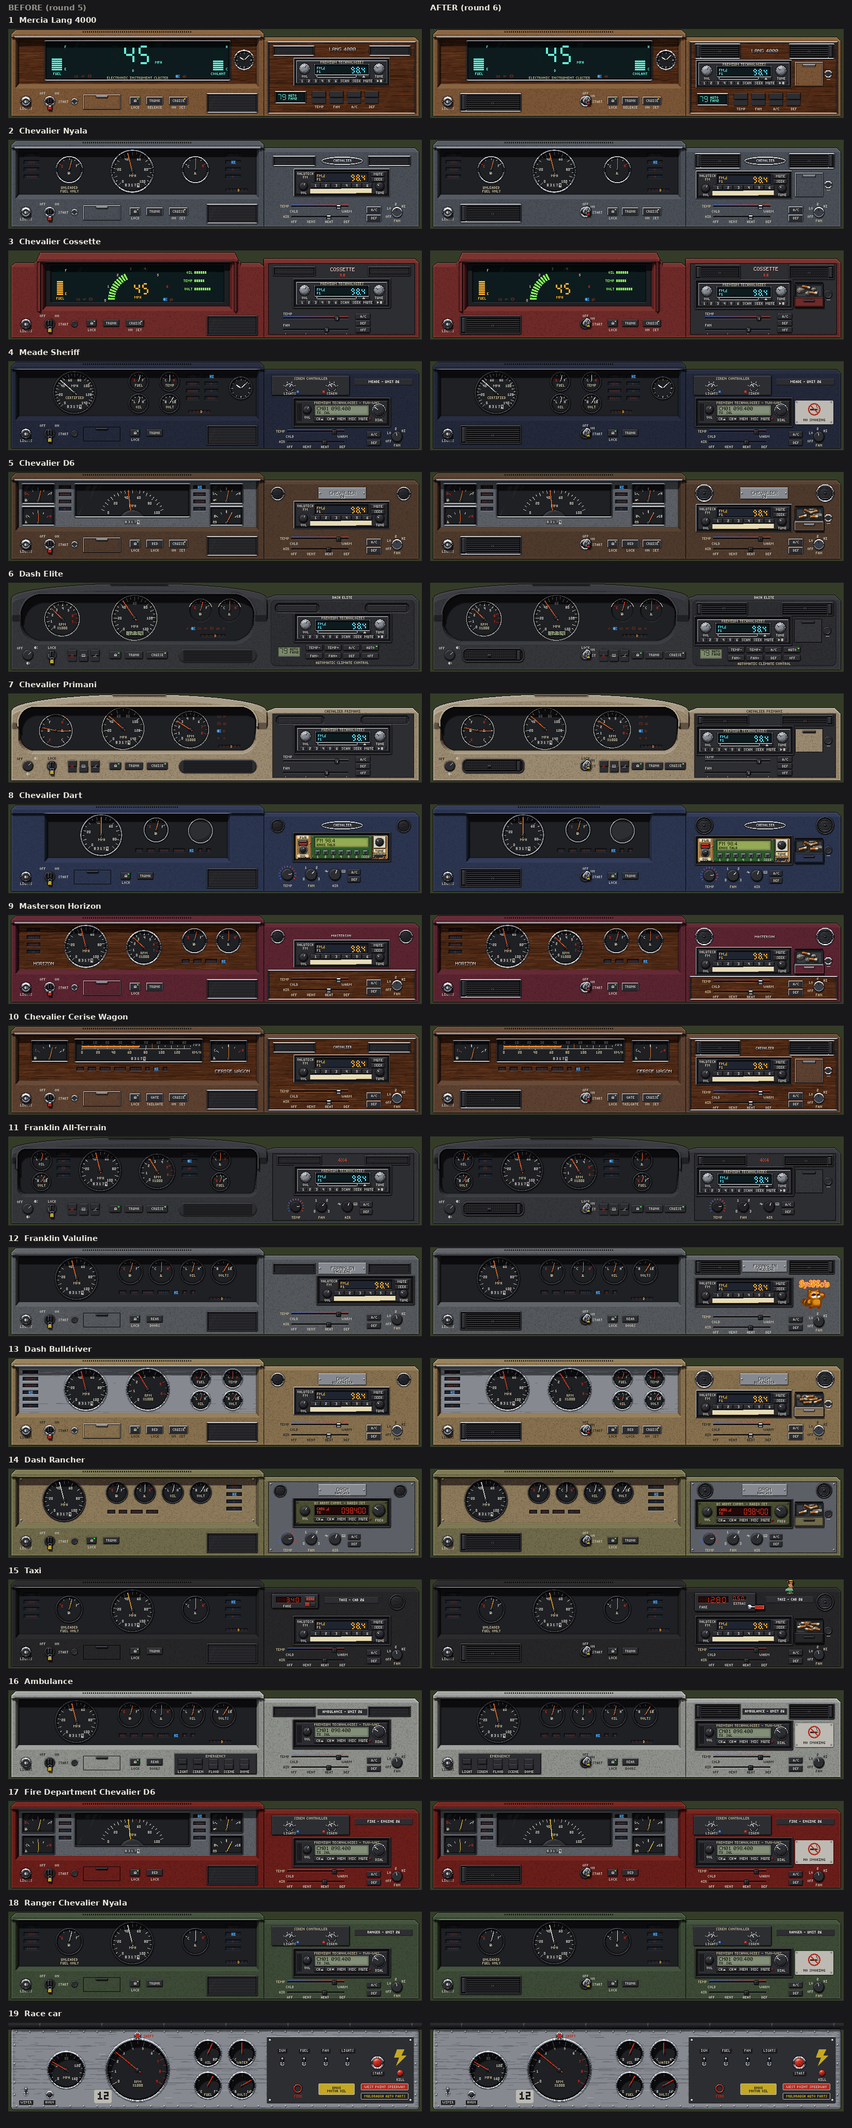
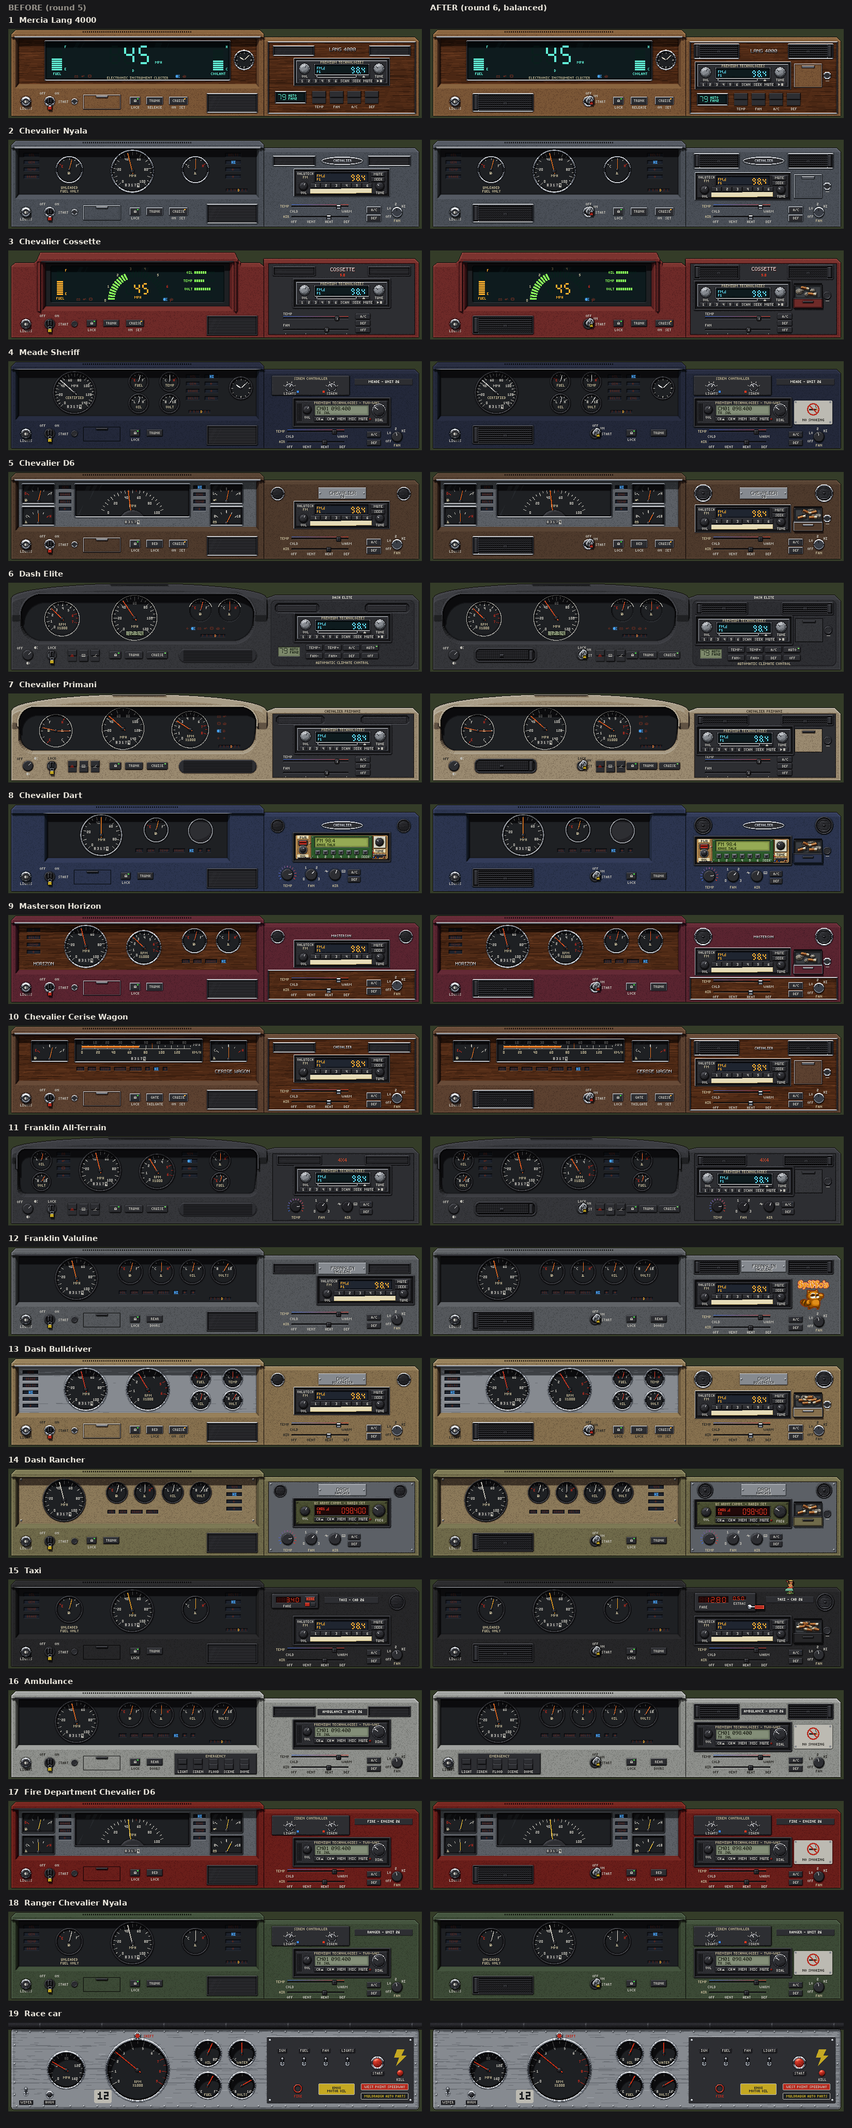
Mockups: dashboards round 6 balance pass
Director, Oct 24: 'do a balance pass to even out spacing of items in the dash.'
- The lower row: left of the steering column (14..222) the lights and the driver's vent (the ambulance's switch panel), right of it (278..486) the key, lock, trunk and cruise, each side spread with equal gaps; the column's 56 px kept clear. Same for the curvy dashes (lights, vent | key, rockers, lock, trunk, cruise).
- The console: the vents 4 px in from each side with the badge centred between them; the radio and ash tray (or plate) spread with equal 6 px gaps across the console; 7 px over the radio and 7 under it on every boxy console.

Claude-Session: https://claude.ai/code/session_015Lv8fXDH1kuxg46sEw6iLh

diff --git a/ZeDUI/mockups/zed_dashboard_r6/src/designs.py b/ZeDUI/mockups/zed_dashboard_r6/src/designs.py
@@ -249,8 +249,8 @@ def cl_cossette(b):
 
 
 # =================================================================================== consoles
-HU6 = (518, 64)          # round 6 (Oct 24): the radio against the console's left edge ...
-ASH6 = (706, 64)         # ... and the ash tray (with the lighter) to its right
+HU6 = (516, 67)          # round 6 (Oct 24): the radio against the console's left edge ...
+ASH6 = (704, 67)         # ... and the ash tray (with the lighter) to its right
 
 
 def con_sedan(b, chrome=True, vents="rect", climate="levers", inset_mat=None, badge_spec=None, hu=HU6, tab=None, fan_mat=None,
@@ -259,7 +259,7 @@ def con_sedan(b, chrome=True, vents="rect", climate="levers", inset_mat=None, ba
     if vents == "rect": console_vents(b, 26, chrome=chrome, w=88, h=30)
     elif vents == "round": console_vents(b, 26, chrome=chrome, h=28, round_=True)
     if badge_spec: badge(b, **badge_spec)
-    hy = hu[1] + (2 if vents == "round" else 0)      # the eyeballs' rings reach a little lower
+    hy = hu[1]                     # balance pass: 7 px over the radio and 7 under it, for every vent
     headunit_slot(b, hu[0], hy, frame="chrome" if chrome else "bezel")
     if ash: ash_tray(b, ASH6[0], hy, chrome=chrome)
     if climate == "levers": climate_levers(b, 548, 128, chrome=chrome, fan_knob=(752, 140), tab=tab, fan_mat=fan_mat)
@@ -279,9 +279,9 @@ def con_fleet(b, top="siren", badge_role="unit", chrome=False):
         badge(b, 650, 33, 92, 12, style="stencil", role=badge_role, font="35", color="#e8e8e0", plate="stencil")
         vent_eyeball(b, 764, 44, 14, bezel="blackp")
         v6.hula(b, 684, 0)
-    headunit_slot(b, 518, 76, frame="bezel")
-    if top == "meter": ash_tray(b, 706, 76, chrome=False, levels=(3,), seed=11)   # a cab's: always the full one
-    else: no_smoking(b, 706, 76)
+    headunit_slot(b, 516, 76, frame="bezel")
+    if top == "meter": ash_tray(b, 704, 76, chrome=False, levels=(3,), seed=11)   # a cab's: always the full one
+    else: no_smoking(b, 704, 76)
     # three pixels higher than the sedans' so the AIR legends (a clear pixel under the tab) stay on the console
     climate_levers(b, 540, 135, chrome=chrome, fan_knob=(752, 146))
 
@@ -299,7 +299,7 @@ def wagon(b):
     lower_boxy6(b, y0=118, chrome=True, trunk_label="GATE", trunk_sub="TAILGATE")
     inset(b, 504, 26, 282, 136, "walnut", "chrome", seed=7)
     console_vents(b, 28, chrome=True, w=88, h=30)
-    badge(b, 604, 39, 86, 9, style="chrome", role="make", font="35", shadow="#140904")
+    badge(b, 602, 39, 86, 9, style="chrome", role="make", font="35", shadow="#140904")
     headunit_slot(b, *HU6, frame="chrome")
     ash_tray(b, *ASH6, chrome=True)
     climate_levers(b, 548, 128, chrome=True, fan_knob=(752, 140))
@@ -332,7 +332,7 @@ def luxury(b):
     lower_boxy6(b, y0=118, chrome=True, trunk_label="TRUNK", trunk_sub="RELEASE")
     inset(b, 504, 26, 282, 136, "walnut", "chrome", seed=13)
     console_vents(b, 28, chrome=True, w=88, h=30)
-    badge(b, 604, 37, 86, 12, style="chrome", role="model", font="57", shadow="#140904")
+    badge(b, 602, 37, 86, 12, style="chrome", role="model", font="57", shadow="#140904")
     headunit_slot(b, *HU6, frame="chrome")
     ash_tray(b, *ASH6, chrome=True)
     climate_vfd(b, 516, 124)
@@ -352,12 +352,12 @@ def horizon(b):
     lamp_col(b, 34, 24, 30, [L_LT, L_BELTS, L_TEMP, L_RT])
     badge(b, 30, 90, 76, 9, style="chrome", role="model", font="57", shadow="#140904")
     lower_boxy6(b, y0=118, chrome=True, cruise=False)
-    inset(b, 504, 120, 282, 42, "walnut", "chrome", seed=23)
+    inset(b, 504, 122, 282, 40, "walnut", "chrome", seed=23)
     console_vents(b, 27, chrome=True, h=28, round_=True)
-    badge(b, 604, 38, 86, 9, style="chrome", role="make", font="35", shadow="#140904")
-    headunit_slot(b, 518, 66, frame="chrome")
-    ash_tray(b, 706, 66, chrome=True)
-    climate_levers(b, 548, 128, chrome=True, fan_knob=(752, 138))
+    badge(b, 602, 38, 86, 9, style="chrome", role="make", font="35", shadow="#140904")
+    headunit_slot(b, *HU6, frame="chrome")
+    ash_tray(b, *ASH6, chrome=True)
+    climate_levers(b, 548, 128, chrome=True, fan_knob=(752, 141))
 
 
 # =================================================================================== vinyl and chrome, speed first
@@ -367,7 +367,7 @@ def nyala(b):
     cl_nyala(b, bz="chrome", nd="#f07a28")
     lower_boxy6(b, y0=118, chrome=True)
     con_sedan(b, chrome=True, vents="rect", climate="levers",
-              badge_spec=dict(x=608, y=33, w=80, h=16, style="chrome", role="make", font="35", plate="oval"))
+              badge_spec=dict(x=605, y=33, w=80, h=16, style="chrome", role="make", font="35", plate="oval"))
 
 
 def dart(b):
@@ -376,7 +376,7 @@ def dart(b):
     cl_dart(b)
     lower_boxy6(b, y0=118, chrome=False, cruise=False)
     con_sedan(b, chrome=False, vents="round", climate="knobs",
-              badge_spec=dict(x=608, y=33, w=80, h=16, style="chrome", role="make", font="35", plate="oval"))
+              badge_spec=dict(x=605, y=33, w=80, h=16, style="chrome", role="make", font="35", plate="oval"))
 
 
 def d6(b):
@@ -385,8 +385,8 @@ def d6(b):
     cl_d6(b, bz="chrome", nd="#ff6a1a")
     lower_boxy6(b, y0=118, chrome=True, trunk_label="BED", trunk_sub="LOCK")
     con_sedan(b, chrome=True, vents="round", climate="levers", tab="tab_black", fan_mat="chrome",
-              badge_spec=dict(x=600, y=30, w=92, h=22, style="emboss", role="make", font="57", color="#2a2c30", plate="stamped"))
-    badge(b, 604, 44, 84, 7, style="emboss", role="sub", font="35", color="#2a2c30", check=False)
+              badge_spec=dict(x=599, y=30, w=92, h=22, style="emboss", role="make", font="57", color="#2a2c30", plate="stamped"))
+    badge(b, 603, 44, 84, 7, style="emboss", role="sub", font="35", color="#2a2c30", check=False)
 
 
 def van(b):
@@ -395,10 +395,10 @@ def van(b):
     cl_van(b, bz="blackp", nd="#ff7a2a")
     lower_boxy6(b, y0=118, chrome=False, cruise=False, trunk_label="REAR", trunk_sub="DOORS")
     console_vents(b, 24, chrome=False, w=88, h=28)
-    badge(b, 604, 26, 86, 22, style="emboss", role="make", font="57", color="#2a2c30", plate="stamped")
-    badge(b, 608, 40, 82, 7, style="emboss", role="model", font="35", color="#2a2c30", check=False)
-    headunit_slot(b, 518, 64, frame="bezel")
-    v6.van_right(b, 706, 66)          # switched sides (Oct 24): the radio went left; logo sticker, NO SMOKING or ash tray
+    badge(b, 602, 26, 86, 22, style="emboss", role="make", font="57", color="#2a2c30", plate="stamped")
+    badge(b, 604, 40, 82, 7, style="emboss", role="model", font="35", color="#2a2c30", check=False)
+    headunit_slot(b, *HU6, frame="bezel")
+    v6.van_right(b, 704, 67)          # switched sides (Oct 24): the radio went left; logo sticker, NO SMOKING or ash tray
     climate_levers(b, 548, 134, chrome=False, fan_knob=(752, 144))
 
 
@@ -408,8 +408,8 @@ def bulldriver(b):
     cl_bull(b, nd="#e8402a")
     lower_boxy6(b, y0=118, chrome=True, trunk_label="BED", trunk_sub="LOCK")
     con_sedan(b, chrome=True, vents="round", climate="levers",
-              badge_spec=dict(x=600, y=30, w=92, h=22, style="emboss", role="make", font="57", color="#2a2c30", plate="stamped"))
-    badge(b, 604, 44, 84, 7, style="emboss", role="model", font="35", color="#2a2c30", check=False)
+              badge_spec=dict(x=599, y=30, w=92, h=22, style="emboss", role="make", font="57", color="#2a2c30", plate="stamped"))
+    badge(b, 603, 44, 84, 7, style="emboss", role="model", font="35", color="#2a2c30", check=False)
 
 
 def rancher(b):
@@ -420,10 +420,10 @@ def rancher(b):
     inset(b, 504, 26, 282, 136, "steel", "seam")
     for (x, y) in ((508, 30), (781, 30), (508, 157), (781, 157)): screw(b, x, y)
     console_vents(b, 29, chrome=False, h=24, round_=True, x0=516, xr=778)
-    badge(b, 604, 30, 86, 22, style="emboss", role="make", font="57", color="#2a2c30", plate="stamped")
-    badge(b, 606, 44, 82, 7, style="emboss", role="model", font="35", color="#2a2c30", check=False)
-    headunit_slot(b, 518, 64, frame="bezel")
-    ash_tray(b, 706, 64, chrome=False)
+    badge(b, 602, 30, 86, 22, style="emboss", role="make", font="57", color="#2a2c30", plate="stamped")
+    badge(b, 604, 44, 82, 7, style="emboss", role="model", font="35", color="#2a2c30", check=False)
+    headunit_slot(b, 516, 64, frame="bezel")
+    ash_tray(b, 704, 64, chrome=False)
     climate_knobs(b, 540, 136, pitch=46, r=11, mat="blackp")
 
 
@@ -452,10 +452,10 @@ def dashelite(b):
     b.check_flat(506, 32, 282, 132, "console face")
     d.slab(cf, 1.0, "blackp", bevel=3.0, polish=0.2, on=Z_FACE - 1.0)
     d.grain_pebble(cf, 0.035, seed=9)
-    vent_louvered(b, 514, 38, 100, 26, bezel="blackp", on=Z_FACE, wheel="left")
-    vent_louvered(b, 680, 38, 100, 26, bezel="blackp", on=Z_FACE, wheel="right")
-    headunit_slot(b, 516, 70, frame="bezel")
-    ash_tray(b, 704, 70, chrome=False)
+    vent_louvered(b, 514, 38, 100, 24, bezel="blackp", on=Z_FACE, wheel="left")
+    vent_louvered(b, 680, 38, 100, 24, bezel="blackp", on=Z_FACE, wheel="right")
+    headunit_slot(b, 518, 69, frame="bezel")
+    ash_tray(b, 706, 69, chrome=False)
     climate_buttons(b, 576, 124, lcd=True)
     b.label("AUTOMATIC CLIMATE CONTROL", 646, 154, "paint_c", align="c")
     badge(b, 560, 25, 172, 7, style="flat", role="full", font="35", color="#d8d6cc", check=False)
@@ -505,7 +505,7 @@ def primani(b):
     vent_louvered(b, 516, 42, 100, 20, bezel="blackp", on=Z_FACE, wheel="left")
     vent_louvered(b, 680, 42, 100, 20, bezel="blackp", on=Z_FACE, wheel="right")
     headunit_slot(b, 520, 68, frame="bezel")
-    ash_tray(b, 706, 68, chrome=False)
+    ash_tray(b, 705, 68, chrome=False)
     climate_sliders(b, 532, 130, w=126)
     badge(b, 560, 31, 172, 7, style="flat", role="full", font="35", color="#3a3226", check=False)
 
@@ -530,7 +530,7 @@ def suv(b):
     vent_louvered(b, 516, 36, 96, 22, bezel="blackp", on=Z_FACE, wheel="left")
     vent_louvered(b, 684, 36, 96, 22, bezel="blackp", on=Z_FACE, wheel="right")
     headunit_slot(b, 520, 64, frame="bezel")
-    ash_tray(b, 706, 64, chrome=False)
+    ash_tray(b, 705, 64, chrome=False)
     climate_knobs(b, 556, 136, pitch=50, r=10, mat="rubber")
     badge(b, 622, 41, 48, 9, style="flat", role="sub", font="57", color="#d84a2a", check=True)
 
@@ -543,10 +543,10 @@ def cossette(b):
     lower_boxy6(b, y0=120, chrome=False)
     inset(b, 504, 26, 282, 136, "blackp", "seam")
     console_vents(b, 28, chrome=False, w=88, h=28)
-    badge(b, 606, 31, 86, 10, style="script", role="model", font="57", color="#e8e8e8", shadow="#3a0a08")
-    badge(b, 606, 44, 86, 7, style="flat", role="sub", font="35", color="#ff3a20", check=False)
-    headunit_slot(b, 518, 62, frame="bezel")
-    ash_tray(b, 706, 62, chrome=False)
+    badge(b, 602, 31, 86, 10, style="script", role="model", font="57", color="#e8e8e8", shadow="#3a0a08")
+    badge(b, 602, 44, 86, 7, style="flat", role="sub", font="35", color="#ff3a20", check=False)
+    headunit_slot(b, 516, 64, frame="bezel")
+    ash_tray(b, 704, 64, chrome=False)
     climate_sliders(b, 532, 130, w=126)
 
 
@@ -636,11 +636,11 @@ def ambulance(b):
     """Ambulance: a Valuline made plain, medic grey; the emergency switches on the lower dash"""
     shell_boxy(b, trim="rubber")
     cl_van(b, bz="blackp", nd="#ff7a2a")
-    lower_boxy6(b, y0=118, chrome=False, cruise=False, vent=False, trunk_label="REAR", trunk_sub="DOORS")
-    rocker_panel(b, 56, 122, [("LIGHT", "lbarLamp", "lbar"), ("SIREN", "sirenLamp", "siren"), ("FLOOD", None, None),
+    px_ = lower_boxy6(b, y0=118, chrome=False, cruise=False, vent=False, trunk_label="REAR", trunk_sub="DOORS", left_panel=158)
+    rocker_panel(b, px_, 122, [("LIGHT", "lbarLamp", "lbar"), ("SIREN", "sirenLamp", "siren"), ("FLOOD", None, None),
                               ("SCENE", None, None), ("DOME", None, None)])
     console_vents(b, 26, chrome=False, w=88, h=30)
-    badge(b, 604, 35, 86, 12, style="stencil", role="unit", font="35", color="#e8e8e0", plate="stencil")
+    badge(b, 602, 35, 86, 12, style="stencil", role="unit", font="35", color="#e8e8e0", plate="stencil")
     headunit_slot(b, *HU6, frame="bezel")
     no_smoking(b, *ASH6)
     climate_levers(b, 548, 128, chrome=False, fan_knob=(752, 140))

diff --git a/ZeDUI/mockups/zed_dashboard_r6/src/v6.py b/ZeDUI/mockups/zed_dashboard_r6/src/v6.py
@@ -135,61 +135,89 @@ def ignition(b, cx, cy, met="chrome", labels=("OFF", "ON", "START"), style=None)
 
 
 # ====================================================================== lower rows
-def lower_boxy6(b, y0=118, chrome=True, trunk_label="TRUNK", trunk_sub=None, cruise=True, lock=True, vent=True, key_style=None):
-    """lights at the left, the driver's vent under the outer gauges, the column clear, the key right of it, then
-    the lock, trunk and cruise buttons"""
+LEFT_SPAN = (14, COLUMN_X - 28)       # the lower row left of the column, and right of it (balance pass, Oct 24:
+RIGHT_SPAN = (COLUMN_X + 28, 486)     #   every group spread with equal gaps, the column's 56 px kept clear)
+
+
+def spread(x0, x1, widths):
+    """left edges for blocks of these widths laid in x0..x1 with equal gaps before, between and after"""
+    g = (x1 - x0 - sum(widths)) / (len(widths) + 1)
+    out, x = [], x0 + g
+    for w in widths:
+        out.append(int(round(x))); x += w + g
+    return out
+
+
+def _lights_boxy(b, cx, y0, met, chrome):
+    d = b.d
+    b.check_flat(cx - 10, y0 + 12, 22, 22, "lights knob")
+    knob(d, cx, y0 + 22, 8, mat=met, on=Z_FACE, z=4.5, knurl=not chrome)
+    ins = np.hypot(d.XX + 0.5 - cx, d.YY + 0.5 - (y0 + 22)) <= 5.2
+    d.paint(ins, "blackp", flatlight=True)
+    d.paint(icon_mask(d, "headlamp", cx - 3, y0 + 20), "paint_w", flatlight=True)
+    b.label("LIGHTS", cx, y0 + 33, align="c")
+    DL.pull_variant(b, cx, y0 + 22, 8, met)
+    b.hit("lights", cx - 10, y0 + 12, 21, 21)
+
+
+def lower_boxy6(b, y0=118, chrome=True, trunk_label="TRUNK", trunk_sub=None, cruise=True, lock=True, vent=True, key_style=None,
+                left_panel=None):
+    """left of the column the lights and the driver's vent (or a left_panel width the caller fills: the ambulance's
+    switches), right of it the key, the lock, the trunk and cruise buttons; each side spread with equal gaps.
+    Returns the left panel's x when one is asked for."""
     d = b.d
     met = "chrome" if chrome else "blackp"
-    b.check_flat(24, y0 + 12, 22, 22, "lights knob")
-    knob(d, 34, y0 + 22, 8, mat=met, on=Z_FACE, z=4.5, knurl=not chrome)
-    ins = np.hypot(d.XX + 0.5 - 34, d.YY + 0.5 - (y0 + 22)) <= 5.2
-    d.paint(ins, "blackp", flatlight=True)
-    d.paint(icon_mask(d, "headlamp", 31, y0 + 20), "paint_w", flatlight=True)
-    b.label("LIGHTS", 34, y0 + 33, align="c")
-    DL.pull_variant(b, 34, y0 + 22, 8, met)
-    b.hit("lights", 24, y0 + 12, 21, 21)
-    if vent:
-        vent_louvered(b, 58, y0 + 6, 118, 36, bezel=met, wheel="left")
-    kx = COLUMN_X + KEY_DX
-    ignition(b, kx, y0 + 22, met=met, style=key_style)
-    lx = kx + 44
-    if lock:
-        b.check_flat(lx - 2, y0 + 12, 22, 17, "lock button")
-        button(d, lx, y0 + 14, 18, 13, None, mat="blackp", on=Z_FACE, z=2.0, frame="chrome" if chrome else None)
-        d.paint(icon_mask(d, "lock", lx + 7, y0 + 18), "paint_w", flatlight=True)
-        b.label("LOCK", lx + 9, y0 + 31, align="c")
-        b.led(lx + 13, y0 + 16, 3, 2, "anyLocked", "#44ee44")
-        b.hit("lock", lx, y0 + 14, 18, 13)
-        lx += 28
+    lw = 24                                                  # the lights block: the knob and its LIGHTS legend
+    left = [lw] + ([118] if vent else ([left_panel] if left_panel else []))
+    lx_ = spread(*LEFT_SPAN, left)
+    _lights_boxy(b, lx_[0] + lw // 2, y0, met, chrome)
+    panel_x = None
+    if vent: vent_louvered(b, lx_[1], y0 + 6, 118, 36, bezel=met, wheel="left")
+    elif left_panel: panel_x = lx_[1]
     tw = max(30, text_w(trunk_label) + 8)
-    b.check_flat(lx - 2, y0 + 12, tw + 4, 17, "trunk button")
-    button(d, lx, y0 + 14, tw, 13, trunk_label, mat="blackp", on=Z_FACE, frame="chrome" if chrome else None)
-    if trunk_sub: b.label(trunk_sub, lx + tw // 2, y0 + 31, align="c")
-    b.hit("trunk", lx, y0 + 14, tw, 13, needs="hasTrunk")
-    cx_ = lx + tw + 10
-    if cruise:
-        b.check_flat(cx_ - 2, y0 + 12, 38, 17, "cruise button")
-        button(d, cx_, y0 + 14, 34, 13, "CRUISE", mat="blackp", on=Z_FACE, frame="chrome" if chrome else None)
-        b.label("ON  SET", cx_ + 17, y0 + 31, align="c")
-        b.led(cx_ + 28, y0 + 16, 3, 2, "cruiseLamp", "#ffb02e")
-        b.hit("cruise", cx_, y0 + 14, 34, 13, needs="running")
-        cx_ += 44
-    return cx_
+    blocks = [("key", 44), ("lock", 18)] if lock else [("key", 44)]
+    blocks.append(("trunk", max(tw, text_w(trunk_sub) if trunk_sub else 0)))
+    if cruise: blocks.append(("cruise", 34))
+    xs = spread(*RIGHT_SPAN, [w for _, w in blocks])
+    for (kind, bw), x in zip(blocks, xs):
+        if kind == "key":
+            ignition(b, x + 12, y0 + 22, met=met, style=key_style)
+        elif kind == "lock":
+            b.check_flat(x - 2, y0 + 12, 22, 17, "lock button")
+            button(d, x, y0 + 14, 18, 13, None, mat="blackp", on=Z_FACE, z=2.0, frame="chrome" if chrome else None)
+            d.paint(icon_mask(d, "lock", x + 7, y0 + 18), "paint_w", flatlight=True)
+            b.label("LOCK", x + 9, y0 + 31, align="c")
+            b.led(x + 13, y0 + 16, 3, 2, "anyLocked", "#44ee44")
+            b.hit("lock", x, y0 + 14, 18, 13)
+        elif kind == "trunk":
+            bx = x + (bw - tw) // 2
+            b.check_flat(bx - 2, y0 + 12, tw + 4, 17, "trunk button")
+            button(d, bx, y0 + 14, tw, 13, trunk_label, mat="blackp", on=Z_FACE, frame="chrome" if chrome else None)
+            if trunk_sub: b.label(trunk_sub, bx + tw // 2, y0 + 31, align="c")
+            b.hit("trunk", bx, y0 + 14, tw, 13, needs="hasTrunk")
+        else:
+            b.check_flat(x - 2, y0 + 12, 38, 17, "cruise button")
+            button(d, x, y0 + 14, 34, 13, "CRUISE", mat="blackp", on=Z_FACE, frame="chrome" if chrome else None)
+            b.label("ON  SET", x + 17, y0 + 31, align="c")
+            b.led(x + 28, y0 + 16, 3, 2, "cruiseLamp", "#ffb02e")
+            b.hit("cruise", x, y0 + 14, 34, 13, needs="running")
+    return panel_x
 
 
 def lower_curvy6(b, y0=122):
-    """early 90s: the lights rotary, the vent low on the left, the column clear, the key right of it, then rockers
-    and the buttons"""
+    """early 90s: left of the column the lights rotary and the vent, right of it the key, the rockers and the buttons,
+    each side spread with equal gaps"""
     d = b.d; M = d.M
-    b.check_flat(26, y0 + 6, 25, 25, "lights knob")
-    knob(d, 38, y0 + 18, 10, mat="blackp", on=Z_FACE, z=3.0, knurl=True)
-    d.paint(icon_mask(d, "headlamp", 35, y0 + 31), "paint_w", flatlight=True)
-    b.label("OFF", 22, y0 + 2, align="c")
-    d.paint(icon_mask(d, "beam", 50, y0 + 1), "paint_w", flatlight=True)
-    b.part("ptr", src="lights", cx=38, cy=y0 + 18, r0=2, r1=8, angles=[225, 315], color="#e8e8e8", w=1)
-    b.hit("lights", 28, y0 + 8, 21, 21)
-    # the vent, a rounded slot with the 90s' fine louvers and a wheel
-    vx, vw = 62, 120
+    lx_ = spread(*LEFT_SPAN, [40, 120])
+    cx = lx_[0] + 16                                         # the knob; its OFF legend and beam icon reach either side
+    b.check_flat(cx - 12, y0 + 6, 25, 25, "lights knob")
+    knob(d, cx, y0 + 18, 10, mat="blackp", on=Z_FACE, z=3.0, knurl=True)
+    d.paint(icon_mask(d, "headlamp", cx - 3, y0 + 31), "paint_w", flatlight=True)
+    b.label("OFF", cx - 16, y0 + 2, align="c")
+    d.paint(icon_mask(d, "beam", cx + 12, y0 + 1), "paint_w", flatlight=True)
+    b.part("ptr", src="lights", cx=cx, cy=y0 + 18, r0=2, r1=8, angles=[225, 315], color="#e8e8e8", w=1)
+    b.hit("lights", cx - 10, y0 + 8, 21, 21)
+    vx, vw = lx_[1], 120
     b.check_flat(vx - 2, y0 + 2, vw + 4, 32, "driver vent")
     v = M().rrect(vx, y0 + 4, vw, 28, 10).get()
     d.slab(v & ~M().rrect(vx + 3, y0 + 7, vw - 6, 22, 8).get(), 1.4, "blackp", bevel=1.4, polish=0.3, on=Z_FACE)
@@ -206,8 +234,8 @@ def lower_curvy6(b, y0=122):
     wm = vi & (d.XX >= vx + vw - 14) & (d.XX < vx + vw - 7) & (d.YY >= y0 + 9) & (d.YY < y0 + 27)
     d.cyl(vx + vw - 14, y0 + 9, 7, 18, 3.2, "blackp", axis="v", polish=0.5, on=Z_FACE - 3.6, mask=wm)
     d.tex[wm & (((d.YY - y0) % 2) == 0)] += 0.11
-    # the key, right of the column
-    kx = COLUMN_X + KEY_DX
+    xs = spread(*RIGHT_SPAN, [36, 56, 22, 34, 40])
+    kx = xs[0] + 12
     b.check_flat(kx - 12, y0 + 6, 25, 25, "ignition")
     d.torus(kx, y0 + 18, 7, 9.5, 1.6, "blackp", polish=0.6, on=Z_FACE)
     ig = np.hypot(d.XX + 0.5 - kx, d.YY + 0.5 - (y0 + 18)) < 7
@@ -217,26 +245,26 @@ def lower_curvy6(b, y0=122):
         DL.ring_label(b, kx + 0.5, y0 + 18.5, 10.5, a, t, gap=2)
     key_turn_variants(b, kx, y0 + 18, "black")
     b.hit("ignition", kx - 10, y0 + 8, 21, 21)
-    x = kx + 28
+    x = xs[1]
     for i, ic in enumerate(("hazard", "defrost", "wiper")):
         b.check_flat(x + i * 20 - 2, y0 + 6, 20, 26, f"rocker {ic}")
         DL.rocker(d, x + i * 20, y0 + 8, 16, 22, on=Z_FACE, up=(i != 1), icon=ic, icon_mat="paint_r" if ic == "hazard" else "paint_w")
-    x += 62
+    x = xs[2]
     b.check_flat(x - 2, y0 + 9, 26, 18, "lock button")
     button(d, x, y0 + 11, 22, 14, None, mat="blackp", on=Z_FACE, r=3)
     d.paint(icon_mask(d, "lock", x + 9, y0 + 15), "paint_w", flatlight=True)
     b.led(x + 16, y0 + 13, 3, 2, "anyLocked", "#44ee44"); b.hit("lock", x, y0 + 11, 22, 14)
-    x += 26
+    x = xs[3]
     b.check_flat(x - 2, y0 + 9, 38, 18, "trunk button")
     button(d, x, y0 + 11, 34, 14, "TRUNK", mat="blackp", on=Z_FACE, r=3); b.hit("trunk", x, y0 + 11, 34, 14, needs="hasTrunk")
-    x += 38
+    x = xs[4]
     b.check_flat(x - 2, y0 + 9, 44, 18, "cruise button")
     button(d, x, y0 + 11, 40, 14, "CRUISE", mat="blackp", on=Z_FACE, r=3)
     b.led(x + 34, y0 + 13, 3, 2, "cruiseLamp", "#7aff6a"); b.hit("cruise", x, y0 + 11, 40, 14, needs="running")
 
 
 # ====================================================================== the console
-def console_vents(b, y, x0=512, w=88, h=30, chrome=True, round_=False, xr=782):
+def console_vents(b, y, x0=510, w=88, h=30, chrome=True, round_=False, xr=780):
     """the two centre vents, larger: rectangles with louvers, tab and wheel, or round eyeballs (x0 .. xr)"""
     bz = "chrome" if chrome else "blackp"
     x1 = xr - w
